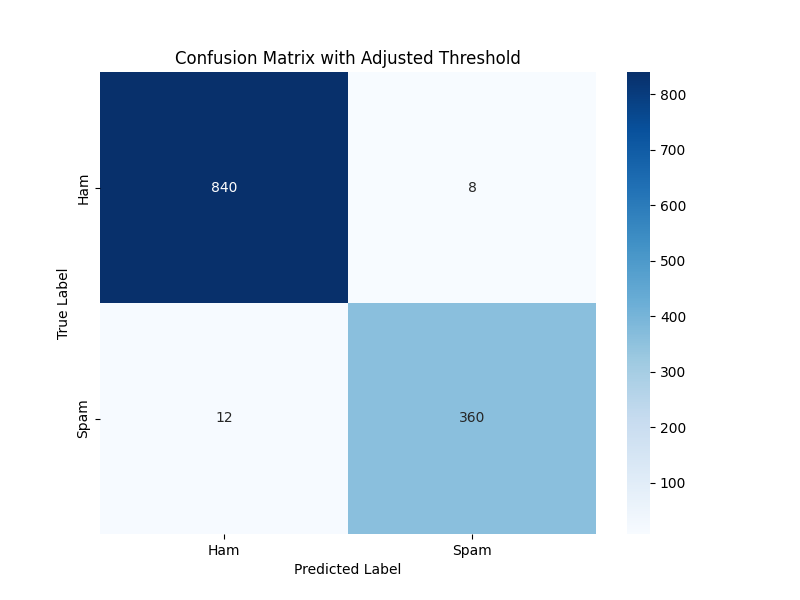
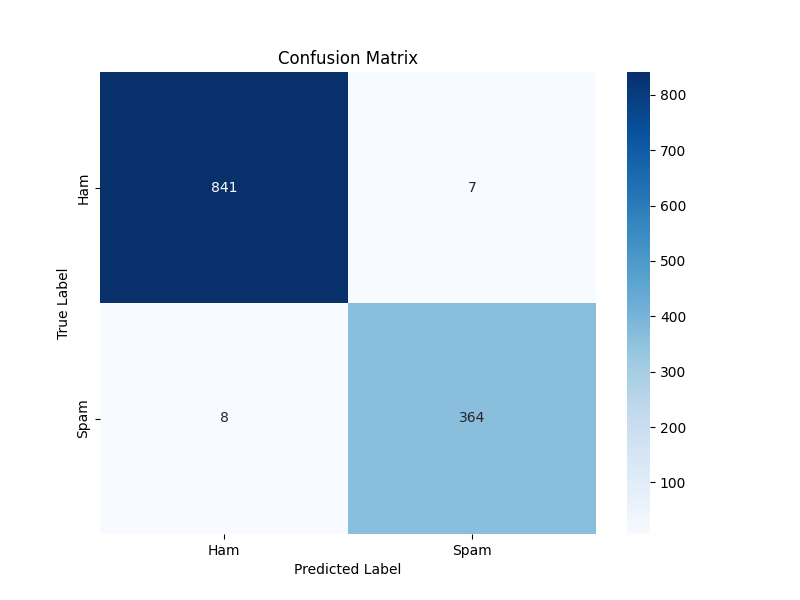
i reduced alpha. noe result is even better

diff --git a/main.py b/main.py
@@ -67,7 +67,7 @@ X_train, X_test, y_train, y_test = train_test_split(X, all_labels, test_size=0.2
 
 
 # Train a Naive Bayes classifier with adjusted alpha
-clf = MultinomialNB(alpha=0.3)  
+clf = MultinomialNB(alpha=0.1)  
 '''
 alpha=0.3:
 
@@ -117,7 +117,7 @@ conf_matrix = confusion_matrix(y_test, y_pred)
 # Plot the confusion matrix as a heatmap
 plt.figure(figsize=(8, 6))
 sns.heatmap(conf_matrix, annot=True, fmt="d", cmap="Blues", xticklabels=["Ham", "Spam"], yticklabels=["Ham", "Spam"])
-plt.title("Confusion Matrix with Adjusted Threshold")
+plt.title("Confusion Matrix")
 plt.xlabel("Predicted Label")
 plt.ylabel("True Label")
 plt.show()
